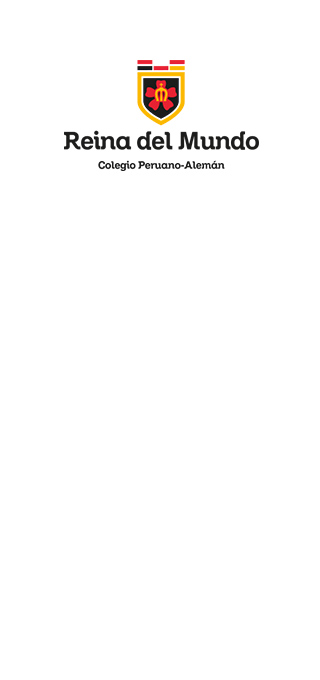
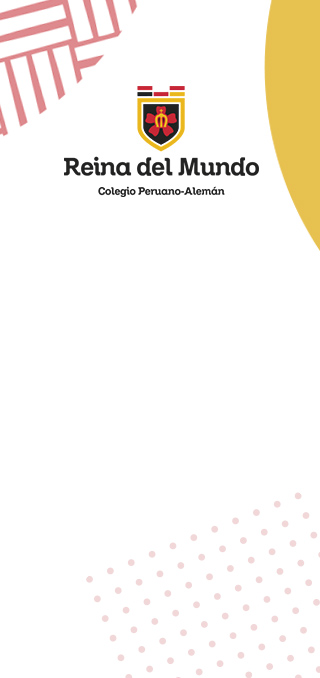
homepage listo

diff --git a/estilos.css b/estilos.css
@@ -2788,7 +2788,9 @@ body {
   height: 800px; }
 
 .texto-mobile {
-  font-size: 14px; }
+  font-size: 14px;
+  text-align: center;
+  padding: 7px 0 0 0; }
 
 #inicio {
   overflow: hidden;
@@ -2799,24 +2801,32 @@ body {
     padding-top: 50px; }
 
 .simple-mobile {
-  padding: 0 35px;
+  padding: 0 28px;
   margin: 60% 0; }
   .simple-mobile .logos-home img {
     width: 100%; }
   .simple-mobile nav {
-    background: red;
-    text-align: center;
-    padding: 21px 0;
-    background-color: #25337E; }
+    text-align: left;
+    padding: 21px 0; }
     .simple-mobile nav a {
-      padding: 0 14px;
+      padding: 0 7px;
       text-decoration: none; }
+      .simple-mobile nav a img {
+        border-style: none;
+        border-radius: 50%;
+        background-color: #c74f47; }
 
 .logo-rmd img {
   display: none; }
 
 .inicio {
   display: none; }
+
+.box-logos-mobile a {
+  width: 24%;
+  display: inline-block; }
+  .box-logos-mobile a img {
+    width: 100%; }
 
 @media screen and (min-width: 760px) {
   #inicio {
@@ -4140,9 +4150,36 @@ body {
     width: 50%;
     top: 113px; }
   #historia .historia {
-    width: 90%;
-    top: -50px;
-    padding: 0 12px 0; }
+    width: 280px;
+    display: block;
+    text-align: left;
+    padding: 70px 0 0 0;
+    margin: 80px auto 0; }
+    #historia .historia div h1 {
+      text-align: left; }
+    #historia .historia div p {
+      text-align: left;
+      font-weight: 900;
+      color: #676767; }
+    #historia .historia div.right-mob p {
+      font-size: 15px;
+      text-align: right; }
+    #historia .historia .lineatiempo-mob {
+      color: #c74f47;
+      font-size: 21px;
+      cursor: pointer;
+      font-weight: 900;
+      text-align: left;
+      position: relative;
+      padding-left: 28px;
+      text-decoration: none; }
+      #historia .historia .lineatiempo-mob:after {
+        left: 0;
+        top: -15px;
+        padding-top: 16px;
+        position: absolute;
+        transform: translate(50%, 0);
+        content: url(img/arrow-choose-white.png); }
   #historia .left, #historia .right {
     float: right;
     position: relative;
@@ -4216,6 +4253,14 @@ body {
   #historia .slick-slide img {
     width: 60%; } }
 @media screen and (min-width: 768px) {
+  .historia div h1 {
+    text-align: right !important; }
+  .historia div p {
+    text-align: right !important;
+    color: white !important; }
+  .historia .slick-slide p {
+    color: #676767 !important; }
+
   .bg-linear-yellow {
     background-image: linear-gradient(180deg, #e7af53, #f1cc97, #faedd7) !important; }
 

diff --git a/historia.html b/historia.html
@@ -67,12 +67,12 @@
 		</div>
 
 	<section class="full-width  m-mt-negative-25  mt-negative-10 " id="block"  >
-		<div class="middle-left">
-			<div>
+		<div class="middle-left hidden-xs">
+			<div class="hidden-xs">
 				<img src="img/historia-main-img.png">
 			</div>
 
-			<div class="puntos">
+			<div class="puntos hidden-xs">
 				<div class="square-pink rotaring"></div>
 				<div class="square-green rotaring"></div>
 				<img src="img/puntos.png">
@@ -84,9 +84,14 @@
 				<p class="text-right " data-rellax-speed="4" >50 años al servicio de la educación nos<br class="mv-br-none"> llenan de orgullo y felicidad, ya que, en<br class="mv-br-none"> los valores de humildad, sencillez y <br class="mv-br-none">caridad, seguimos formando<br class="mv-br-none"> generaciones de alumnos líderes que <br class="mv-br-none">buscan la verdad.  En ello hemos<br class="mv-br-none"> encontrado la gratificación de nuestra <br class="mv-br-none">vocación.
 				<br></p>
 
+				<a href="linea-tiempo.html"target="_blank" class="hidden-lg lineatiempo-mob">Línea de tiempo</a>
+				
+				<div class="right-mob hidden-lg">
+					<p>Estamos ubicados en una zona con un excelente clima en el distrito de La Molina, en un amplio local de 25 000m2. Contamos, además, con amplias áreas verdes, aulas equipadas con equipo multimedia y conexión a internet, sala de informática, centro de información y tecnología, sala de lectura infantil, laboratorios de ciencias, capilla, coliseos techados, comedor, cancha de grass artificial.</p>
+				</div>
 			</div>
 
-			<div class="lineatiempo">
+			<div class="lineatiempo hidden-xs">
 				<a href="linea-tiempo.html"target="_blank" >
 					<img src="img/linea-de-tiempo.png">
 				</a>
@@ -169,7 +174,7 @@
 		</g>
     </svg>
     <div class="circuloRuta"></div>
-	    <div class="wrapper-lista-descripcion">
+	    <div class="wrapper-lista-descripcion hidden-xs">
 			<div class="slider-historia">
 				<div class="right">
 					<div class="slider slider-for-historia">

diff --git a/sass/historia.scss b/sass/historia.scss
@@ -54,9 +54,46 @@
 	}
 
 	.historia {
-	    width: 90%;
-	    top: -50px;
-	    padding: 0 12px 0;
+	    width: 280px;
+	    display: block;
+	    text-align: left;
+	    padding: 70px 0 0 0;
+	    margin: 80px auto 0;
+
+	    div h1 {
+	    	text-align: left;
+	    }
+
+	    div p {
+	    	text-align: left;
+	    	font-weight: 900;
+	    	color: darken(gray, 10);
+	    }	
+
+    	div.right-mob p{
+    		font-size: 15px;
+    		text-align: right;
+    	}
+
+	    .lineatiempo-mob {
+	    	color: #c74f47;
+	    	font-size: 21px;
+	    	cursor: pointer;
+	    	font-weight: 900;
+	    	text-align: left;
+	    	position: relative;
+	    	padding-left: 28px;
+	    	text-decoration: none;
+
+	    	&:after {
+			    left: 0;
+	    		top: -15px;
+			    padding-top: 16px;
+			    position: absolute;
+			    transform: translate(50%, 0);	    		
+			    content: url(img/arrow-choose-white.png);
+	    	}
+	    }    
     }
 
 	.left, .right {
@@ -175,6 +212,23 @@
 
 
 @media screen and (min-width: 768px) {
+
+	.historia {
+	    div h1 {
+	    	text-align: right !important;
+	    }
+
+	    div p {
+	    	text-align: right !important;
+	    	color: white !important;
+	    }	
+		
+		.slick-slide p {
+			color: darken(gray, 10) !important;
+		}
+		
+	}
+
 	.bg-linear-yellow {
 		background-image: linear-gradient(180deg, #e7af53, #f1cc97, #faedd7) !important;
 	}
@@ -187,6 +241,9 @@
 		position: absolute;
 
 	}
+
+
+
 
 	.lineatiempo {
 

diff --git a/index.html b/index.html
@@ -127,7 +127,18 @@
 					Somos un centro educativo confesional católico peruano alemán, cuya promotoría es la Congregación de Misioneras de San Vicente de Paúl, que tiene su origen en Hildesheim-Alemania.
 					Brindamos una educación personalizada que integra una alta exigencia académica acorde a estándares internacionales, con una sólida formación en valores humanos y cristianos, bajo el impulso del lema: “Todo en humildad, sencillez y caridad”, procuramos que cada alumno despliegue sus capacidades para el servicio a los demás.
 
+
 				</p>
+
+				<div class="box-logos-mobile">
+					<a href="https://www.pasch-net.de/de/" target="_blank"><img src="img/logos/logo6.png"></a>
+					<a href="" target="_blank"><img src="img/logos/logo7.png"></a>
+					<a href="https://www.corfep.org//" target="_blank"><img src="img/logos/logo3.png"></a>
+					<a href="https://www.bqf.org.uk/what-we-do/performance-improvement/efqm-excellence-model/" target="_blank"><img src="img/logos/logo4.png"></a>
+					<a href="https://educarpersonas.com/" target="_blank"><img src="img/logos/logo5.png"></a>
+					<a href="http://www.up.edu.pe/" target="_blank"><img src="img/logos/logo1.png"></a>
+					<a href="https://www.cambridge" target="_blank"><img src="img/logos/logo2.png"></a>
+				</div>
 			</div>
 
 			<nav>

diff --git a/sass/home.scss b/sass/home.scss
@@ -15,6 +15,8 @@ body {
 
 .texto-mobile {
     font-size: 14px;
+    text-align: center;
+    padding: 7px 0 0 0;
 }
 
 #inicio {
@@ -31,7 +33,7 @@ body {
 .simple-mobile {
     
 
-    padding: 0 35px;
+    padding: 0 28px;
     margin: 60% 0;
 
     .logos-home {
@@ -41,14 +43,18 @@ body {
     }
 
     nav {
-        background: red;
-        text-align: center;
+        text-align: left;
         padding: 21px 0;
-			background-color: #25337E;
 
         a  {
-            padding: 0 14px;
+            padding: 0 7px;
             text-decoration: none;
+
+            img {
+                border-style: none;
+                border-radius: 50%;
+                background-color: #c74f47;
+            }
         }
     }
 }
@@ -60,6 +66,18 @@ body {
 
 .inicio {
     display: none;
+}
+
+.box-logos-mobile {
+    a {
+        width: 24%;
+        display: inline-block;
+
+
+        img {
+            width: 100%;
+        }
+    }
 }
 
 
